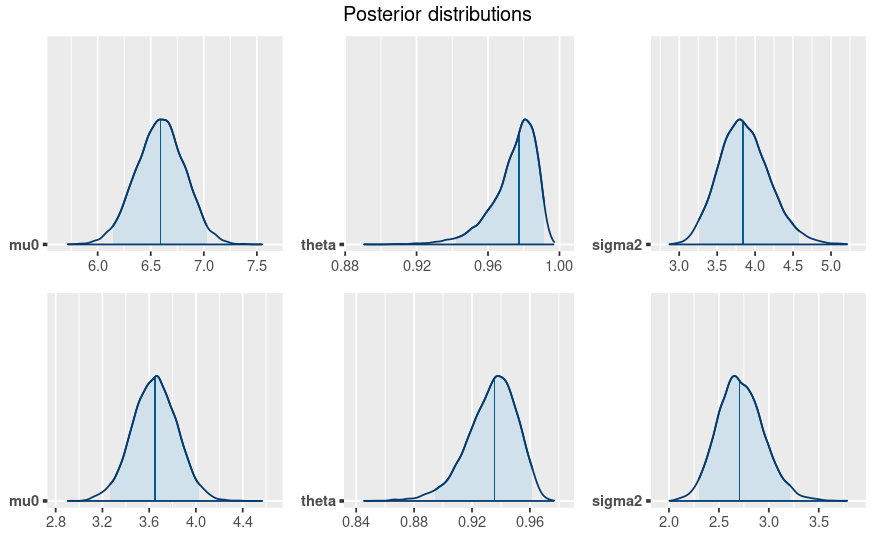
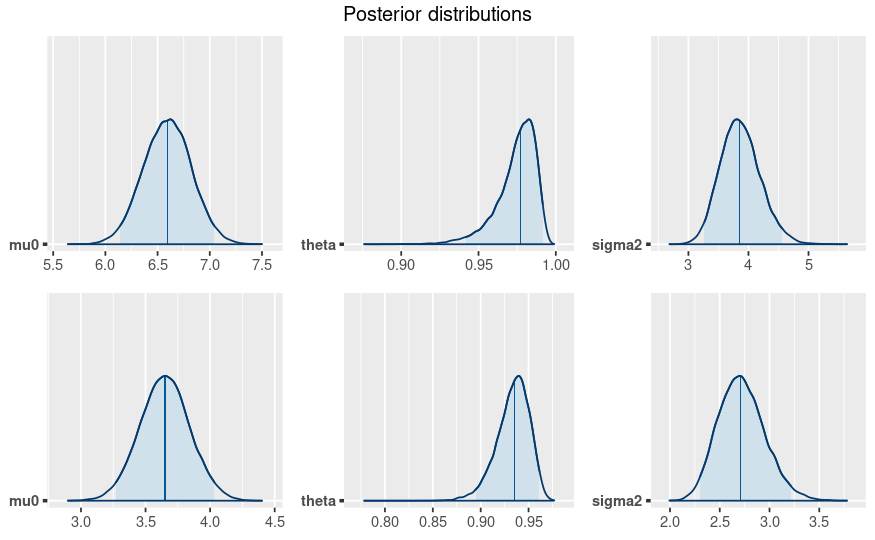
Report - MA

diff --git a/report/sections/3-MA.tex b/report/sections/3-MA.tex
@@ -30,15 +30,30 @@ For the priors, we chose:
     \end{split}
 \end{equation}
 We selected uninformative priors for all the parameters: $\mu_{0}$, $\sigma^2$, and $\theta$. \\
-Running the JAGS code to implement the MA(1) model for GDP and CPIAUCSL, we obtained the posterior distributions shown in Figure \ref{fig:MA1_posteriors}.
+Running the JAGS code to implement the MA(1) model for GDP and CPIAUCSL, we obtained the posterior distributions shown in Figure \ref{fig:MA1_posteriors}, with the corresponding means and 95\% credible intervals reported in Table \ref{tab:MA1_posteriors}. \\
 \begin{figure}[h]
     \centering
     \includegraphics[width=0.8\textwidth]{images/3-MA/posteriors.png}
     \caption{Posterior distributions of the parameters for the MA(1) models. The top line corresponds to the model used for GDP, while the bottom line corresponds to the model used for CPIAUCSL.}
     \label{fig:MA1_posteriors}
-\end{figure} \\
-Specifically, we derived the following posterior means and 95\% credible intervals: \\
-% Add the table with the posterior means and credible intervals
+\end{figure}
+\begin{table}[H]
+    \centering
+    \begin{tabular}{|c|c|c|c|}
+        \hline
+        \textbf{Model target variable } & \textbf{Parameter } & \textbf{Posterior Mean } & \textbf{95\% Credible Interval } \\
+        \hline
+        GDP      & $\mu_0$    & 6.5934423 & (6.1441382, 7.0421211) \\
+        GDP      & $\theta$   & 0.9745347 & (0.9419309, 0.9915436) \\
+        GDP      & $\sigma^2$ & 3.8669139 & (3.2666059, 4.5663869) \\
+        CPIAUCSL & $\mu_0$    & 3.6496595 & (3.2718468, 4.0311333) \\
+        CPIAUCSL & $\theta$   & 0.9335022 & (0.8946139, 0.9613808) \\
+        CPIAUCSL & $\sigma^2$ & 2.7205353 & (2.3038087, 3.2125894) \\
+        \hline
+    \end{tabular}
+    \caption{Posterior means and 95\% credible intervals for the parameters of the MA(1) models.}
+    \label{tab:MA1_posteriors}
+\end{table}
 In both the GDP and CPIAUCSL models, the $\theta$ parameter is close to 1. However, using a prior for $\theta$ over a larger range, i.e., $\theta \sim \mathcal{U}(-2.0, 2.0)$, did not significantly change the estimated value of $\theta$. \\
 We also examined the trace plots and autocorrelation plots and found no significant issues. \\
 Finally, plotting the in-sample and out-of-sample predictions with 95\% credible intervals and comparing them with the actual data, we obtained the results shown in Figures \ref{fig:MA1_gdp_prediction} and \ref{fig:MA1_infl_prediction}. As observed, the MA(1) model is not good for out of sample predictions, as it fails to capture the trend of the data and returns a flat line.
@@ -77,13 +92,32 @@ For the priors, we chose:
     \end{split}
 \end{equation}
 We selected uninformative priors for $\mu_{0}$, $\sigma^2$, $\theta_1$, and $\theta_2$. \\
-Running the JAGS code to implement the MA(2) model for GDP and CPIAUCSL, we obtained the posterior distributions shown in Figure \ref{fig:MA2_posteriors}.
+Running the JAGS code to implement the MA(2) model for GDP and CPIAUCSL, we obtained the posterior distributions shown in Figure \ref{fig:MA2_posteriors}, with the corresponding means and 95\% credible intervals reported in Table \ref{tab:MA2_posteriors}. \\
 \begin{figure}[H]
     \centering
     \includegraphics[width=0.8\textwidth]{images/3-MA/posteriors2.png}
     \caption{Posterior distributions of the parameters for the MA(2) models. The top line corresponds to the model used for GDP, while the bottom line corresponds to the model used for CPIAUCSL.}
     \label{fig:MA2_posteriors}
-\end{figure}
+\end{figure} 
+\begin{table}[H]
+    \centering
+    \begin{tabular}{|c|c|c|c|}
+        \hline
+        \textbf{Model target variable } & \textbf{Parameter } & \textbf{Posterior Mean } & \textbf{95\% Credible Interval } \\
+        \hline
+        GDP      & $\mu_0$    & 6.5862752 & (6.0523533, 7.1291252) \\
+        GDP      & $\theta_1$ & 1.1489023 & (1.0408063, 1.2447200) \\
+        GDP      & $\theta_2$ & 0.5587509 & (0.4698359, 0.6348533) \\
+        GDP      & $\sigma^2$ & 2.8842617 & (2.4383601, 3.4118375) \\
+        CPIAUCSL & $\mu_0$    & 3.8081535 & (3.3497252, 4.2727049) \\
+        CPIAUCSL & $\theta_1$ & 1.3155230 & (1.2142974, 1.4063565) \\
+        CPIAUCSL & $\theta_2$ & 0.4365283 & (0.3581476, 0.5111502) \\
+        CPIAUCSL & $\sigma^2$ & 1.9356539 & (1.6371395, 2.2893457) \\
+        \hline
+    \end{tabular}
+    \caption{Posterior means and 95\% credible intervals for the parameters of the MA(2) models.}
+    \label{tab:MA2_posteriors}
+\end{table}
 Plotting the in-sample and out-of-sample predictions with 95\% credible intervals and comparing them with the actual data, we obtained the results shown in Figures \ref{fig:MA2_gdp_prediction} and \ref{fig:MA2_infl_prediction}. \\
 As with the MA(1) model, the MA(2) model is not good for out-of-sample predictions, as it fails to capture the trend of the data and returns a flat line.
 \begin{figure}[H]

diff --git a/report/sections/2-AR.tex b/report/sections/2-AR.tex
@@ -42,12 +42,12 @@ Running the JAGS code to implement the AR(1) model for GDP and CPIAUCSL, we obta
         \hline
         \textbf{Model target variable } & \textbf{Parameter } & \textbf{Posterior Mean } & \textbf{95\% Credible Interval } \\
         \hline
-        GDP      & mu0    & 0.6646012 & (0.269216192, 1.0554382) \\
-        GDP      & alpha  & 0.8946932 & (0.842044515, 0.9481597) \\
-        GDP      & sigma2 & 2.4565718 & (2.080629925, 2.8999602) \\
-        CPIAUCSL & mu0    & 0.1891912 & (0.006510675, 0.3713430) \\
-        CPIAUCSL & alpha  & 0.9411750 & (0.901591825, 0.9812118) \\
-        CPIAUCSL & sigma2 & 0.9510602 & (0.804012999, 1.1263014) \\
+        GDP      & $\mu_0$    & 0.6646012 & (0.269216192, 1.0554382) \\
+        GDP      & $\alpha$   & 0.8946932 & (0.842044515, 0.9481597) \\
+        GDP      & $\sigma^2$ & 2.4565718 & (2.080629925, 2.8999602) \\
+        CPIAUCSL & $\mu_0$    & 0.1891912 & (0.006510675, 0.3713430) \\
+        CPIAUCSL & $\alpha$   & 0.9411750 & (0.901591825, 0.9812118) \\
+        CPIAUCSL & $\sigma^2$ & 0.9510602 & (0.804012999, 1.1263014) \\
         \hline
     \end{tabular}
     \caption{Posterior means and 95\% credible intervals for the parameters of the AR(1) models.}
@@ -55,7 +55,8 @@ Running the JAGS code to implement the AR(1) model for GDP and CPIAUCSL, we obta
 \end{table}
 As seen from the posteriors, the $\alpha$ parameter is close to 1 for both GDP and CPIAUCSL. However, when using a prior for $\alpha$ over a larger range, i.e., $\alpha \sim \mathcal{U}(-2.0, 2.0)$, the estimated value of $\alpha$ did not change significantly. \\
 We also examined the trace plots and autocorrelation plots and found no significant issues. \\
-Lastly, we plotted the in-sample and out-of-sample predictions with 95\% credible intervals and compared them with the actual data. The results are shown in Figures \ref{fig:AR1_gdp_prediction} and \ref{fig:AR1_infl_prediction}. As observed, the AR(1) model captures the initial trend of the data. However, the COVID-19 pandemic caused the model to fail in predicting the sharp decrease in GDP and the sharp increase in CPIAUCSL. \\
+Lastly, we plotted the in-sample and out-of-sample predictions with 95\% credible intervals and compared them with the actual data. The results are shown in Figures \ref{fig:AR1_gdp_prediction} and \ref{fig:AR1_infl_prediction}. \\
+Analyzing the out-of-sample predictions, we observe that the AR(1) model successfully captures the initial data trend. However, the model fails to anticipate the significant impact of the COVID-19 pandemic, which led to a sharp decline in GDP and a steep rise in CPIAUCSL. \\
 \begin{figure}[H]
     \centering
     \includegraphics[width=0.75\textwidth]{images/2-AR/gdp_prediction.png}
